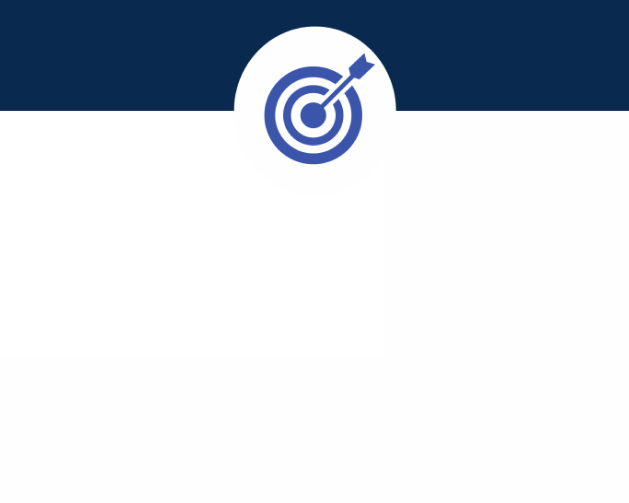
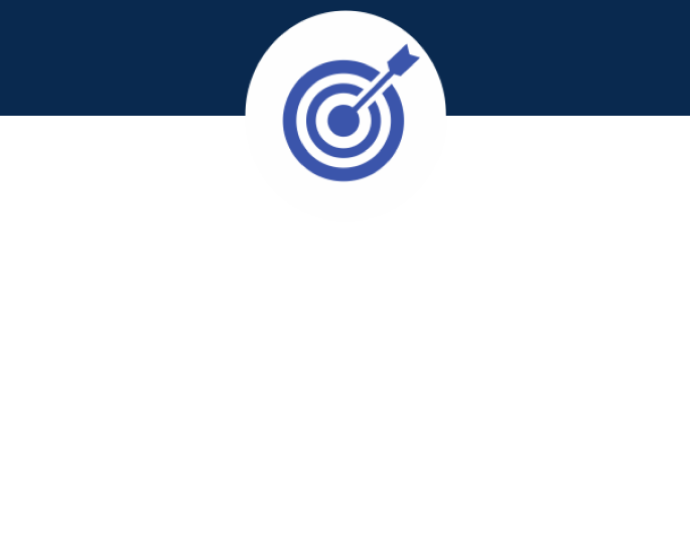
Corrección imágenes contenedor misión y visión

Changed region(s): [[0.0, 0.0, 1.0, 0.328]]

diff --git a/src/styles.css b/src/styles.css
@@ -3593,7 +3593,7 @@ textarea.form-control.is-invalid {
 }
 .text-wrap-vision .p-m-v{
   margin-top: 40px;
-  width: 540px;
+  width: 530px;
   margin-left: 30px;
 }
 .text-wrap-slider .title-slider{
@@ -4569,7 +4569,7 @@ textarea.form-control.is-invalid {
     height: 340px;
   }
   .container-fluid-mission-vision {
-    height: 600px;
+    height: 580px;
   }
   .row-m-v {
     margin-top: 20px;
@@ -4592,11 +4592,9 @@ textarea.form-control.is-invalid {
     font-size: 36px;
   }
   .text-wrap-mission .p-m-v{
-    margin-top: 40px;
     width: 480px;
   }
   .text-wrap-vision .p-m-v{
-    margin-top: 40px;
     width: 480px;
   }
   .services-link-infra{
@@ -5272,6 +5270,12 @@ textarea.form-control.is-invalid {
   .col-value3 {
     height: 310px;
   }
+  .container-fluid-mission-vision {
+    height: 560px;
+  }
+  .row-m-v {
+    margin-top: 0;
+  }
   .text-wrap-mission {
     width: 500px;
     font-size: 17px;
@@ -5788,11 +5792,11 @@ textarea.form-control.is-invalid {
     height: 280px;
   }
   .container-fluid-mission-vision {
-    height: 550px;
+    height: 500px;
   }
   .row-m-v {
-    margin-top: 20px;
-    height: 420px;
+    margin-top: -30px;
+    height: 440px;
   }
   .text-wrap-mission {
     width: 450px;
@@ -6566,13 +6570,15 @@ textarea.form-control.is-invalid {
   }
   .row-m-v {
     margin-top: -30px;
-    height: 500px;
+    height: 450px;
   }
   .text-wrap-mission {
+    background-image: url('../public/images/about-us/mision-990.png');
     width: 400px;
     font-size: 15px;
   }
   .text-wrap-vision {
+    background-image: url('../public/images/about-us/vision-990.png');
     width: 400px;
     font-size: 15px;
   }
@@ -7034,19 +7040,20 @@ textarea.form-control.is-invalid {
     font-size: 18px;
   }
   .row-m-v {
-    margin-top: -30px;
-    height: 550px;
+    margin-top: 0;
   }
   .text-wrap-mission {
+    background-image: url('../public/images/about-us/mision-930.png');
     width: 350px;
     font-size: 14px;
-    height: 450px;
+    height: 480px;
     margin-top: -50px;
   }
   .text-wrap-vision {
+    background-image: url('../public/images/about-us/vision-930.png');
     width: 350px;
     font-size: 14px;
-    height: 450px;
+    height: 480px;
     margin-top: -50px;
   }
   .text-wrap-mission .values {
@@ -7969,11 +7976,10 @@ textarea.form-control.is-invalid {
   }
   .container-fluid-mission-vision {
     padding-top: 0;
-    height: 450px;
+    height: 440px;
   }
   .row-m-v {
-    margin-top: 0;
-    height: 450px;
+    margin-top: 30px;
   }
   .col-mission {
     height: 450px;
@@ -7982,12 +7988,14 @@ textarea.form-control.is-invalid {
     height: 450px;
   }
   .text-wrap-mission {
+    background-image: url('../public/images/about-us/mision-800.png');
     width: 300px;
     font-size: 13px;
     height: 410px;
     margin-top: -40px;
   }
   .text-wrap-vision {
+    background-image: url('../public/images/about-us/vision-800.png');
     width: 300px;
     font-size: 13px;
     height: 410px;
@@ -8564,12 +8572,12 @@ textarea.form-control.is-invalid {
     width: 100%;
   }
   .container-fluid-mission-vision {
-    height: 1000px;
+    height: 1020px;
   }
   .row-m-v {
     display: flex;
     flex-direction: column;
-    margin-top: 10px;
+    margin-top: 80px;
     margin-bottom: 0;
     height: 1000px; 
   }
@@ -8577,6 +8585,7 @@ textarea.form-control.is-invalid {
     width: auto;
   }
   .col-vision {
+    margin-top: 20px;
     width: auto;
   }
   .text-wrap-mission {
@@ -8593,11 +8602,11 @@ textarea.form-control.is-invalid {
   }
   .text-wrap-mission .values {
     font-size: 30px;
-    margin-top: 200px;
+    margin-top: 170px;
   }
   .text-wrap-vision .values {
     font-size: 30px;
-    margin-top: 200px;
+    margin-top: 170px;
   }
   .text-wrap-mission .p-m-v{
     width: 350px;
@@ -9501,10 +9510,14 @@ textarea.form-control.is-invalid {
     text-align: justify;
   }
   .container-fluid-mission-vision {
-    height: 900px;
+    height: 930px;
   }
   .row-m-v {
+    margin-top: 60px;
     height: 900px;
+  }
+  .col-vision {
+    margin-top: 50px;
   }
   .text-wrap-mission {
     width: 350px;
@@ -9520,11 +9533,9 @@ textarea.form-control.is-invalid {
   }
   .text-wrap-mission .values {
     font-size: 26px;
-    margin-top: 180px;
   }
   .text-wrap-vision .values {
     font-size: 26px;
-    margin-top: 180px;
   }
   .text-wrap-mission .p-m-v {
     width: 300px;
@@ -11606,6 +11617,12 @@ textarea.form-control.is-invalid {
     margin-top: 40px;
     font-size: 24px;
   }
+  .container-fluid-mission-vision {
+    height: 900px;
+  }
+  .col-vision {
+    margin-top: 10px;
+  }
   .text-wrap-mission {
     width: 320px;
     height: 420px;
@@ -11618,19 +11635,19 @@ textarea.form-control.is-invalid {
   }
   .text-wrap-mission .values {
     font-size: 24px;
-    margin-top: 180px;
+    margin-top: 150px;
   }
   .text-wrap-vision .values {
     font-size: 24px;
-    margin-top: 180px;
+    margin-top: 150px;
   }
   .text-wrap-mission .p-m-v {
-    width: 300px;
-    margin-left: 5px;
+    width: 292px;
+    margin-left: 10px;
   }
   .text-wrap-vision .p-m-v {
-    width: 300px;
-    margin-left: 5px;
+    width: 292px;
+    margin-left: 10px;
   }
   .row-infraestructure {
     display: flex;
@@ -12084,10 +12101,13 @@ textarea.form-control.is-invalid {
     margin-top: -20px; 
   }
   .container-fluid-mission-vision {
-    height: 780px;
+    height: 770px;
   }
   .row-m-v {
     height: 800px;
+  }
+  .col-vision {
+    margin-top: -10px;
   }
   .text-wrap-mission {
     width: 280px;
@@ -12103,18 +12123,16 @@ textarea.form-control.is-invalid {
   }
   .text-wrap-mission .values {
     font-size: 22px;
-    margin-top: 170px;
   }
   .text-wrap-vision .values {
     font-size: 22px;
-    margin-top: 170px;
   }
   .text-wrap-mission .p-m-v {
-    width: 250px;
+    width: 254px;
     margin-left: 10px;
   }
   .text-wrap-vision .p-m-v {
-    width: 250px;
+    width: 254px;
     margin-left: 10px;
   }
   .container-fluid-infra {
